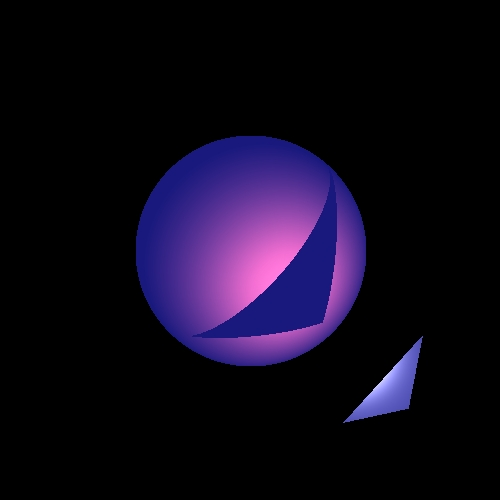
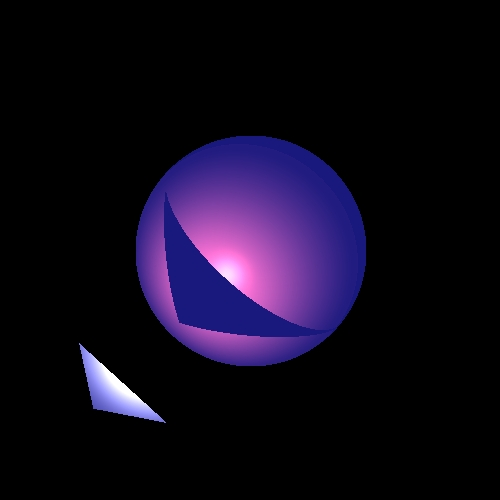
ww

Changed region(s): [[0.27, 0.33, 0.75, 0.72], [0.15, 0.69, 0.33, 0.87], [0.69, 0.66, 0.84, 0.84]]

diff --git a/src/renderer/Render.java b/src/renderer/Render.java
@@ -86,6 +86,61 @@ public class Render {
 
         return new Color(ambientLight.add(emissionLight,diffuseLight,specularLight,refractedLight,reflectedLight));
     }
+    private Color ImprovingOccludedcalcColor(Geometry geometry,Point3D point, Ray inRay,int level){
+        if(level==RECURSION_LEVEL) return new Color(0,0,0);
+
+        Color ambientLight=scene.getAmbientLight().getIntensity();
+
+        Color emissionLight=geometry.getEmmission();
+
+        Color I0=new Color(ambientLight.getColor().getRed()+emissionLight.getColor().getRed()
+                ,ambientLight.getColor().getGreen()+emissionLight.getColor().getGreen()
+                ,ambientLight.getColor().getBlue()+emissionLight.getColor().getBlue());
+
+        Iterator<LightSource> lights=scene.getLightsIterator();
+        Color diffuseLight=new Color(0,0,0);
+        Color specularLight=new Color(0,0,0);
+        double Kd=geometry.getMaterial().getKd();
+        double Ks=geometry.getMaterial().getKs();
+        vector n=geometry.getNormal(point).normalize();
+        vector MV=new vector(point, scene.
+                getCamera().getP0()).normalize();
+        while (lights.hasNext()) {
+            LightSource Current = lights.next();
+            vector l=Current.getL(point).normalize();
+            Color c=Current.getInternsity(point).scale(ImprovingOccluded(Current,point,geometry));
+            int nShininess=geometry.getnShininess();
+                diffuseLight = diffuseLight.add(calcDiffusiveComp(Kd, n, l,c));
+                specularLight = specularLight.add(calcSpecularComp(Ks, MV,n,l,nShininess,c));
+        }
+
+        //Recursive call for a reflected ray
+        Ray reflectedRay=constructReflectedRay(geometry.getNormal(point),point,inRay);
+        Map.Entry<Geometry,Point3D> reflectedEntry=findClosesntIntersection(reflectedRay);
+        Color reflectedColor;
+        if(reflectedEntry==null)
+            reflectedColor=new Color(0,0,0);
+        else
+        {
+            reflectedColor=calcColor(reflectedEntry.getKey(),reflectedEntry.getValue(),reflectedRay,level+1);
+        }
+        double kr=geometry.getMaterial().getKr();
+        Color reflectedLight=new Color(scaleColor(reflectedColor,kr));
+
+        //Recursive call for a refracted ray
+        Ray refractedRay=constructRefractedRay(geometry.getNormal(point),point,inRay);
+        Map.Entry<Geometry,Point3D> refractedEntry=findClosesntIntersection(refractedRay);
+        Color refractedColor;
+        if(refractedEntry==null)
+            refractedColor=new Color(0,0,0);
+        else{
+            refractedColor=calcColor(refractedEntry.getKey(),refractedEntry.getValue(),refractedRay,level+1);
+        }
+        double kt=geometry.getMaterial().getKt();
+        Color refractedLight=new Color(scaleColor(refractedColor,kt));
+
+        return new Color(ambientLight.add(emissionLight,diffuseLight,specularLight,refractedLight,reflectedLight));
+    }
 
 
 
@@ -134,11 +189,13 @@ public class Render {
 
         Point3D geometryPoint=new Point3D(point);
 
-        vector epsVector = new vector(geometry.getNormal(geometryPoint));
+        vector epsVector = new vector(geometry.getNormal(geometryPoint)).normalize();
         epsVector.multiply((epsVector.dotProduct(lightDirection) > 0) ? 2 : -2);
+
         geometryPoint = point.add(epsVector);
 
         Ray lightRay =new Ray(geometryPoint,lightDirection);
+
         Map<Geometry,List<Point3D>> intersectionPoints=getSceneRayIntersections(lightRay);
 
         if(geometry instanceof FlatGeometry) {
@@ -150,6 +207,56 @@ public class Render {
         }
         return false;
     }
+    /*private double ImprovingSoftShadows(LightSource light, Point3D point, Geometry geometry)
+    {
+        vector lightDirection=light.getL(point).normalize();
+        lightDirection.multiply(-1);
+
+        Point3D geometryPoint=new Point3D(point);
+
+        vector epsVector = new vector(geometry.getNormal(geometryPoint)).normalize();
+        epsVector.multiply((epsVector.dotProduct(lightDirection) > 0) ? 2 : -2);
+
+        geometryPoint = point.add(epsVector);
+
+        Ray lightRay =new Ray(geometryPoint,lightDirection);
+
+        Map<Geometry,List<Point3D>> intersectionPoints=getSceneRayIntersections(lightRay);
+
+        if(geometry instanceof FlatGeometry) {
+            intersectionPoints.remove(geometry);
+        }
+        for (Map.Entry<Geometry,List<Point3D>> entry: intersectionPoints.entrySet()){
+            if(entry.getKey().getMaterial().getKt()==0)
+                return true;
+        }
+        return false;
+    }*/
+    private double ImprovingOccluded(LightSource light, Point3D point, Geometry geometry) {
+        vector lightDirection=light.getL(point).normalize();
+        lightDirection.multiply(-1);
+
+        Point3D geometryPoint=new Point3D(point);
+
+        vector epsVector = new vector(geometry.getNormal(geometryPoint));
+        epsVector.multiply((epsVector.dotProduct(lightDirection) > 0) ? 2 : -2);
+
+        geometryPoint = point.add(epsVector);
+
+        Ray lightRay =new Ray(geometryPoint,lightDirection);
+
+        Map<Geometry,List<Point3D>> intersectionPoints=getSceneRayIntersections(lightRay);
+
+        if(geometry instanceof FlatGeometry) {
+            intersectionPoints.remove(geometry);
+        }
+        double shadowK=1.0;
+        for (Map.Entry<Geometry,List<Point3D>> entry: intersectionPoints.entrySet()){
+            shadowK*=entry.getKey().getMaterial().getKt();
+        }
+        return shadowK;
+    }
+
     private Color calcSpecularComp(double ks, vector minusVector, vector normal, vector l, int nShininess, Color internsity) {
         minusVector.normalize();
         vector n=new vector(normal.normalize());
@@ -212,7 +319,7 @@ public class Render {
         for(int i=0;i<imageWriter.getWidth();i++)
             for(int j=0;j<imageWriter.getHeight();j++)
             {
-                List<Ray> rays=scene.getCamera().constructRaysThroughPixel(imageWriter.getNx(),imageWriter.getNy(),i,j,scene.getScreenDistance(),imageWriter.getWidth(),imageWriter.getWidth());
+                List<Ray> rays=scene.getCamera().constructRaysThroughPixel(imageWriter.getNx(),imageWriter.getNy(),i,j,scene.getScreenDistance(),imageWriter.getWidth(),imageWriter.getHeight());
                 List<Color> colorsRays=new ArrayList<Color>();
                 for (Ray ray: rays)
                 {

diff --git a/src/unittests/RecursiveTests.java b/src/unittests/RecursiveTests.java
@@ -70,9 +70,9 @@ public class RecursiveTests {
         scene.addGeometry(triangle2);
 
         scene.addLight(new spotLight(new Color(255, 100, 100),  new Point3D(200, 200, -150),new vector(-2, -2, -3),
-                1, 2, 2));
+                0, 0.00001, 0.000005));
 
-        ImageWriter imageWriter = new ImageWriter("Recursive Test 6", 500, 500, 500, 500);
+        ImageWriter imageWriter = new ImageWriter("Recursive Test 6 IS", 500, 500, 500, 500);
 
         Render render = new Render(imageWriter, scene);
 

diff --git a/src/unittests/RenderTest.java b/src/unittests/RenderTest.java
@@ -179,7 +179,7 @@ public class RenderTest {
 		scene.setCameraAndDistance(new Camera(), 200);
 
 		Sphere sphere = new Sphere(500, new Point3D(0.0, 0.0, -1000));
-		sphere.setMaterial(new Material(1, 1, 1, 1, 20));
+		sphere.setMaterial(new Material(1, 1, 0, 0, 20));
 		sphere.setEmmission(new Color(0, 0, 100));
 		scene.addGeometry(sphere);
 
